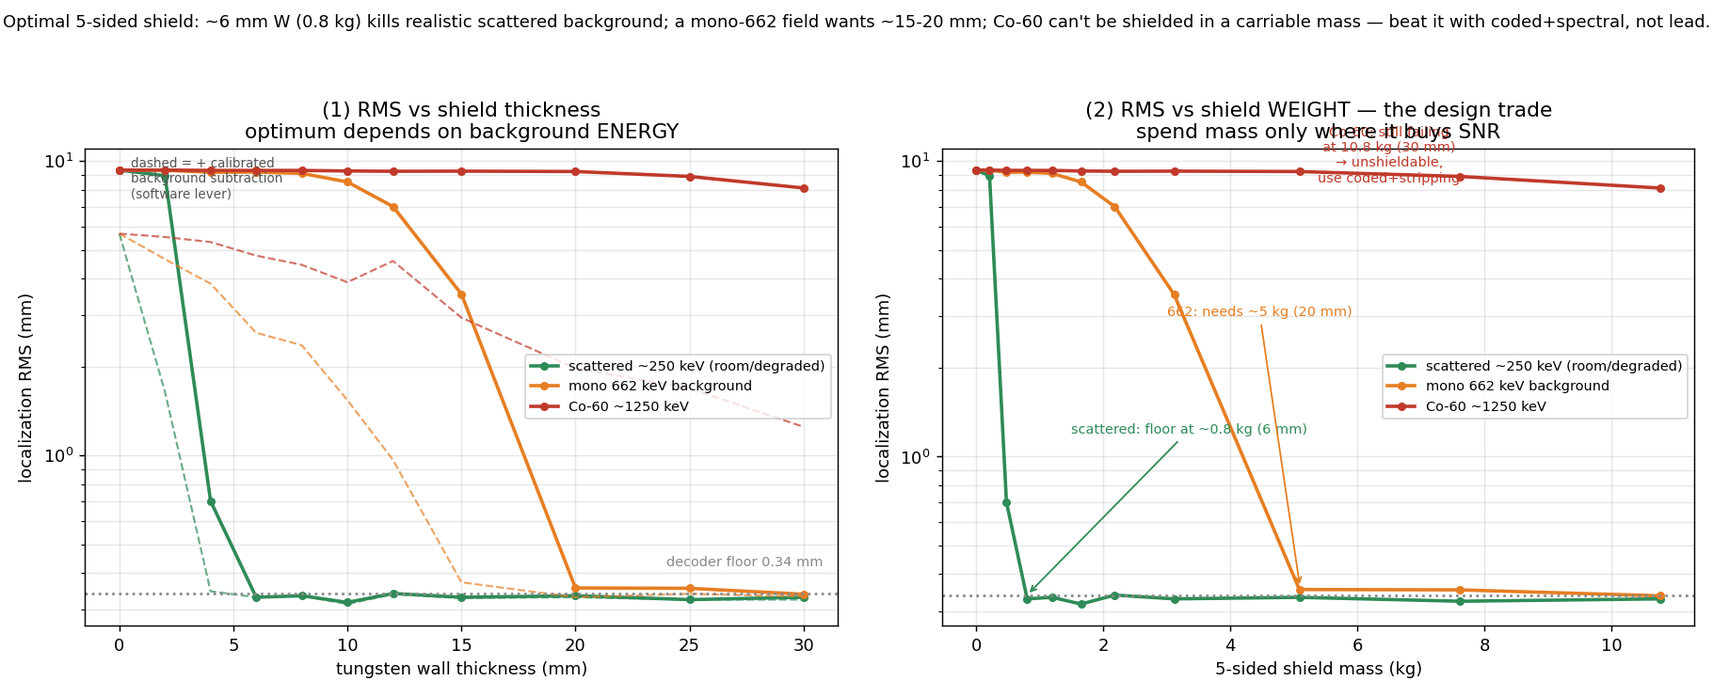
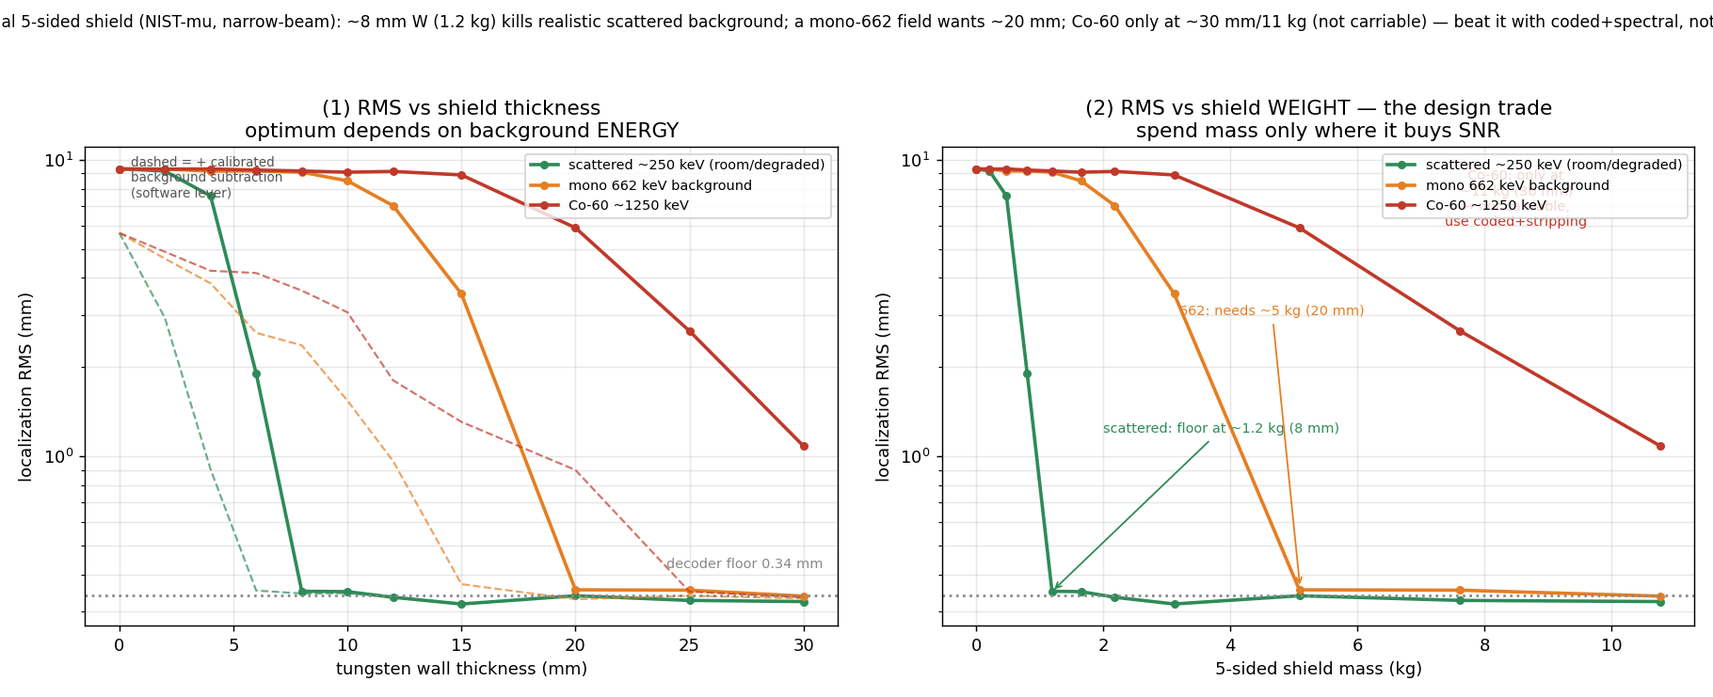
Reorganize backlog + apply Codex round-4 cross-verification fixes
BACKLOG.md: split into Open (grouped) vs a done-by-theme summary.

Codex round 4 reviewed three previously-unverified areas; fixes applied:
- ShieldStudy (theme 22): mu_W now uses NIST-XCOM tabulated values per line (the
  crystal-Compton MuRel power law underestimated high-E attenuation ~40% at 1.25 MeV,
  making Co-60 too pessimistic); corrected numbers (scattered ~8mm/1.2kg, Co-60
  shieldable only at ~30mm/11kg, not "unshieldable"). Knee heuristic gained an absolute
  quality gate so a never-localizing background no longer reports a bogus knee. Mass
  uses max(PixelsX,PixelsY). Model labelled narrow-beam/uncollided (buildup neglected).
- SiPM thermal (theme 22): physics all validated (tempco -1.8%/C, 3.2C window-loss,
  centroid statistics, LED-bypasses-crystal). Softened "warm-up alone -> 0%" (needs the
  ambient swing too; warm-up alone is ~3% kept); noted gain-only model is conservative.
- Compton combined lever (theme 17): softened the co-located claim - R is computed from
  the true Co map (a calibrated ratio, one global scalar applied per pixel via the Co
  image), NOT blind separation. Fixed the net_area baseline comment (flat min-side-band,
  not linear interpolation).

24 tests green.

Claude-Session: https://claude.ai/code/session_01JzXSNQYoWEuh1nUS9rXAso

diff --git a/src/Genoray.MonteCarlo.Cli/Program.cs b/src/Genoray.MonteCarlo.Cli/Program.cs
@@ -173,13 +173,16 @@ static int RunShield(string[] args)
     const double failThr = 3.0;
     double[] thick = [0, 2, 4, 6, 8, 10, 12, 15, 20, 25, 30];
 
-    // Background energies -> tungsten linear attenuation via the validated MuRel scaling.
-    double MuW(double e) => 0.178 * Math.Pow(661.7 / e, 1.56);
-    var backgrounds = new (string label, double energy)[]
+    // Tungsten linear attenuation (per mm) — from NIST XCOM total-with-coherent (mu/rho * rho).
+    // NOTE: the crystal-Compton MuRel power law (661.7/E)^1.56 is only accurate NEAR 662 keV; it
+    // underestimates high-energy attenuation badly (~40% low at 1.25 MeV), so shielding must use
+    // tabulated coefficients per line, not that scaling. Values are narrow-beam (uncollided) — a
+    // first-order model that neglects Compton buildup and oblique path lengths (knees ~ approximate).
+    var backgrounds = new (string label, double energy, double muPerMm)[]
     {
-        ("scattered_250keV", 250.0),
-        ("Cs137_662keV",     661.7),
-        ("Co60_1250keV",     1250.0),
+        ("scattered_250keV", 250.0,  0.50),    // NIST W ~0.26 cm^2/g
+        ("Cs137_662keV",     661.7,  0.178),   // ~0.093 cm^2/g (anchor)
+        ("Co60_1250keV",     1250.0, 0.112),   // ~0.058 cm^2/g
     };
 
     Console.WriteLine("Optimal 5-sided (side/top/bottom/rear) tungsten shield thickness");
@@ -189,21 +192,24 @@ static int RunShield(string[] args)
 
     var study = new ShieldStudy(new DefaultSimulationFactory());
     var csv = new System.Text.StringBuilder("bg,thickness_mm,transmission,bg_per_px,rms_raw_mm,rms_calib_mm,fail_raw,shield_kg\n");
-    foreach (var (label, energy) in backgrounds)
+    foreach (var (label, energy, mu) in backgrounds)
     {
-        double mu = MuW(energy);
         var rows = study.Run(baseConfig, nSrc, bg0, mu, thick, repeats, failThr);
         csv.Append(ShieldStudy.ToCsv(label, rows).Split('\n', 2)[1]);   // drop repeated header
 
-        // knee = thinnest t whose raw RMS is within 15% of the best (thick-shield) RMS
+        // A REAL knee: thinnest t whose raw RMS is near the best AND actually localizes well
+        // (absolute quality gate — otherwise a background that never localizes returns a bogus
+        // "knee" at the first row that merely ties the equally-bad rest).
         double floor = rows.Min(r => r.RmsRawMm);
-        var knee = rows.FirstOrDefault(r => r.RmsRawMm <= floor * 1.15) ?? rows[^1];
+        var knee = rows.FirstOrDefault(r => r.RmsRawMm <= floor * 1.15 && r.RmsRawMm < failThr && r.FailRaw < 0.10);
 
         Console.WriteLine($"=== background {label}  (mu_W = {mu:F3}/mm, HVL {0.6931/mu:F1} mm) ===");
         Console.WriteLine("  t(mm)  transmit  bg/px   RMS raw   RMS calib   shield(kg)");
         foreach (var r in rows)
             Console.WriteLine($"  {r.ThicknessMm,4:F0}   {r.Transmission,7:F3}  {r.BgPerPixel,6:F2}  {r.RmsRawMm,6:F2}mm  {r.RmsCalibMm,7:F2}mm   {r.ShieldMassKg,7:F2}");
-        Console.WriteLine($"  -> useful thickness ~ {knee.ThicknessMm:F0} mm  (RMS {knee.RmsRawMm:F2} mm, shield {knee.ShieldMassKg:F2} kg)");
+        Console.WriteLine(knee is null
+            ? $"  -> NO useful thickness in [{thick[0]:F0},{thick[^1]:F0}] mm (unshieldable at carriable mass here)"
+            : $"  -> useful thickness ~ {knee.ThicknessMm:F0} mm  (RMS {knee.RmsRawMm:F2} mm, shield {knee.ShieldMassKg:F2} kg)");
         Console.WriteLine();
     }
     File.WriteAllText("samples/shield.csv", csv.ToString());

diff --git a/samples/plot_shield.py b/samples/plot_shield.py
@@ -38,20 +38,20 @@ for bg, (lab, c) in bgs.items():
     m = col(bg, "shield_kg")
     ax2.plot(m, col(bg, "rms_raw_mm"), "-o", color=c, lw=2, ms=4, label=lab)
 ax2.axhline(0.34, ls=":", color="#888")
-ax2.annotate("scattered: floor at ~0.8 kg (6 mm)", (0.8, 0.34), (1.5, 1.2),
+ax2.annotate("scattered: floor at ~1.2 kg (8 mm)", (1.19, 0.35), (2.0, 1.2),
              fontsize=8, color="#2e8b57", arrowprops=dict(arrowstyle="->", color="#2e8b57"))
-ax2.annotate("662: needs ~5 kg (20 mm)", (5.1, 0.36), (3.0, 3.0),
+ax2.annotate("662: needs ~5 kg (20 mm)", (5.1, 0.36), (3.2, 3.0),
              fontsize=8, color="#e67e22", arrowprops=dict(arrowstyle="->", color="#e67e22"))
-ax2.text(6.5, 8.5, "Co-60: still failing\nat 10.8 kg (30 mm)\n→ unshieldable,\nuse coded+stripping",
+ax2.text(8.5, 6.0, "Co-60: only at\n~11 kg (30 mm)\n→ not carriable,\nuse coded+stripping",
          fontsize=8, color="#c0392b", ha="center")
 ax2.set_xlabel("5-sided shield mass (kg)"); ax2.set_ylabel("localization RMS (mm)")
 ax2.set_yscale("log")
 ax2.set_title("(2) RMS vs shield WEIGHT — the design trade\nspend mass only where it buys SNR")
 ax2.legend(fontsize=8); ax2.grid(alpha=0.3, which="both")
 
-fig.suptitle("Optimal 5-sided shield: ~6 mm W (0.8 kg) kills realistic scattered background; a mono-662 field "
-             "wants ~15-20 mm; Co-60 can't be shielded in a carriable mass — beat it with coded+spectral, not lead.",
-             fontsize=10)
+fig.suptitle("Optimal 5-sided shield (NIST-mu, narrow-beam): ~8 mm W (1.2 kg) kills realistic scattered background; "
+             "a mono-662 field wants ~20 mm; Co-60 only at ~30 mm/11 kg (not carriable) — beat it with coded+spectral, not lead.",
+             fontsize=9.5)
 fig.tight_layout(rect=[0, 0, 1, 0.94])
 out = os.path.join(here, "shield.png")
 fig.savefig(out, dpi=130); print("saved", out)

diff --git a/src/Genoray.MonteCarlo.Simulation/ShieldStudy.cs b/src/Genoray.MonteCarlo.Simulation/ShieldStudy.cs
@@ -43,8 +43,10 @@ public sealed class ShieldStudy
         var rng = _factory.CreateRandom(baseConfig);
         double tx = baseConfig.Source.Position[0], ty = baseConfig.Source.Position[1];
 
-        // fixed barrel geometry the walls must enclose (mask plane -> behind the crystal)
-        double det = baseConfig.Detector.PixelsX * baseConfig.Detector.PixelPitchMm;
+        // fixed barrel geometry the walls must enclose (mask plane -> behind the crystal).
+        // Use the larger detector dimension so a rectangular array is still fully enclosed.
+        double det = Math.Max(baseConfig.Detector.PixelsX, baseConfig.Detector.PixelsY)
+                     * baseConfig.Detector.PixelPitchMm;
         double barrel = baseConfig.Geometry.MaskDetectorDistanceMm + baseConfig.Detector.CrystalThicknessMm;
 
         var raw = new DetectorImage(W, H);

diff --git a/rtl/compton_stripping_study.py b/rtl/compton_stripping_study.py
@@ -79,8 +79,9 @@ def window_mask(E):
     return (ctr > E * (1 - WF)) & (ctr < E * (1 + WF))
 
 def net_area(s, E):
-    """Photopeak net area: gross window minus a linear local baseline (side-band average) —
-    standard ROI netting, so a peak riding on a residual continuum isn't over-counted."""
+    """Photopeak net area: gross window minus a FLAT baseline = the MINIMUM of the two side-band
+    means (not a linear side-band interpolation) — a robust ROI netting that avoids a neighbouring
+    photopeak inflating the baseline, at the cost of being biased low on a sloped continuum."""
     m = window_mask(E)
     lo, hi, bw = E * (1 - WF), E * (1 + WF), 0.05 * E
     left = s[(ctr > lo - bw) & (ctr < lo)]

diff --git a/BACKLOG.md b/BACKLOG.md
@@ -1,115 +1,47 @@
 # Backlog
 
-Deferred work, captured so we don't forget. Not in current scope.
+Deferred work, captured so we don't forget. Not in current scope. See
+`AGENTS.findings.md` (themes 1–22) for everything that IS done.
 
-Everything captured here has been done — the backlog is currently empty.
+## Open
 
-**Done:**
-- Directional biasing (detector-area importance sampling) — `DetectorBiasedSource`,
-  on by default (`Source.DirectionalBiasing`); ~100× fewer photons, validated unbiased.
-- Noise / statistics study — `NoiseStudy` + `noise` CLI command. `SourceConfig` has
-  `ActivityBq` / `AcquisitionTimeSeconds` / `BranchingRatio` (0.851); Poisson
-  realizations of the biased mean map → accuracy vs detected counts. Found a
-  ~25–50 count threshold below which localization collapses.
-- Tungsten partial transmission — closed cells transmit `exp(-mu·path)`,
-  `Mask.LinearAttenuationPerMm` default 0.178 (~17% leak for 10 mm W at 662 keV).
-  Adds ~17% counts, lowers contrast to ~0.83×, but MURA rejects the near-DC leakage
-  so localization is barely affected.
+### Core capability
+- **Multi-line isotope model in C# `SourceConfig`** (multi-line + `cascadeCoincident`) so the MC
+  emits a real *mixed-isotope field* through the coded aperture. The combined lever (theme 17)
+  currently sums per-line runs, not a true mixed-field source. **Highest-value open item.**
 
-- RTL peak-detector co-simulation — **first version done** in `rtl/` (SystemVerilog
-  `peak_detector.sv` + Icarus testbench, Python stimulus/scoring). Reconstructs the
-  Cs-137 photopeak; shows pile-up loss at high rate. Remaining: cocotb/ModelSim
-  wrapper, drive it from the C# MC's per-event stream, trapezoidal shaping filter.
+### Mask geometry
+- **Tapered / diverging holes** (accept the FOV angular cone) — the actual "wider FOV" fix for
+  thick masks, distinct from theme-20 point-focusing (which narrows FOV).
+- **Empirical open-fraction sweep with random arrays** + a double-valued balanced decode — confirm
+  the analytical √(ρ(1−ρ)) optimum (theme 21 was analytical) and show MURA beating random arrays
+  on sidelobes.
 
-- Optimal tungsten thickness — **done**: mask is a ray-marched 3D slab
-  (`CodedApertureMask`), `thickness` CLI command sweeps it. Optimum ~8–10 mm (thin
-  leaks, thick collimates off-axis).
-- Crystal non-uniformity (gain + energy resolution) — **done**: `CrystalUniformity`
-  (per-pixel sensitivity from gain σ, gradient, energy-window acceptance) + `uniformity`
-  CLI command with flood correction. Finding: coded-aperture is intrinsically robust.
+### Depth / RTL
+- **Full 3D (x,y,S) likelihood** depth search instead of the alternating iteration (near-field
+  off-axis depth is coupling-noise-limited, theme 19).
+- **cocotb / ModelSim wrapper** + drive the RTL from the C# MC's per-event stream.
+- **Trapezoidal / CR-RC shaping in RTL** (validated in Python) as the noise-optimal refinement.
 
-- Crystal material + array — **done**: stopping-power efficiency (`CrystalAttenuationPerMm`),
-  material presets in `samples/materials/`, `array` sampling sweep. Efficiency ∝ density;
-  array needs ≳1 pixel per mask-cell shadow (Nyquist), ~2 is the sweet spot.
+### Front-end integration
+- Fold `rtl/frontend_model.py` (photoelectron budget → energy resolution) into the C#
+  `EnergyResolutionFwhm` derivation, and model DCR-as-background.
 
-- Material decay time → RTL pile-up — **done**: `rtl/material_rate_study.py` sweeps
-  count rate per scintillator (decay + GAGG afterglow). GAGG collapses at ~1 Mcps
-  (afterglow); GAGG:Mg / CeBr3 hold up. Confirms the material recommendation.
+### Productization (theme 22 — design-only; user is NOT building this now)
+- Integrate the SiPM / thermal / gain-stabilization + shield models into the C# pipeline
+  (currently Python design layers on top of the validated MC).
+- `ShieldStudy` uses a uniform additive background; a directional / isotropic real background
+  source through the geometry would be more precise than the analytical leak term.
 
-- Per-crystal pulse-shape / gain non-uniformity into the RTL — **done**:
-  `rtl/pixel_uniformity_study.py` runs the RTL per crystal (own gain + decay). Per-crystal
-  gain scatter smears the photopeak (7.4%→18% at 15% σ); per-channel gain calibration
-  restores it. Energy needs calibration even though coded-aperture position is robust.
-
-- SiPM + ADC front-end characteristics — **done (analysis)**: `rtl/frontend_model.py`
-  (photoelectron budget → energy resolution vs PDE per crystal). Finding: at typical MPPC
-  PDE (~45%) most crystals are already crystal-limited → more PDE is wasted; spend on
-  crystal choice + spectral match + per-channel calibration + low DCR (for weak sources).
-  ADC 12–14 bit is plenty; sample rate matched to crystal decay. Deeper follow-up (not
-  scoped): fold this into the C# `EnergyResolutionFwhm` derivation and DCR-as-background.
-
-- Front-end energy trust (Phase A) — **done**: `rtl/ballistic_deficit_study.py` characterizes
-  the baseline peak-hold's failures (saturation/dynamic range, overlap→fake sum line, rate
-  drift); `rtl/integrating_peak_detector.sv` + `shaping_pileup_study.py` add charge integration
-  + pile-up rejection (fast derivative arrival detector) → ~halves the fake sum-tail at the cost
-  of throughput, window↔decay tradeoff. AGENTS.findings themes 12–13.
-
-- Multi-isotope discrimination + dynamic range (Phase B) — **done**: `rtl/multi_isotope_study.py`
-  + isotope presets `samples/isotopes/*.json` (multi-line + cascade + KN Compton continuum).
-  Findings (theme 14): set the ADC gain to the highest line (12-bit single gain covers 122→1332
-  keV, no low-line penalty; dual-gain only if bit-starved); cascade sum (rate-linear) vs random
-  pile-up (rate²) separated by activity sweep, crossover ~200 kdecays/s.
-
-- Crystal-internal Compton scatter (the original ask) — **done**: `ComptonModel` (Kahn KN sampler,
-  energy-dependent photofraction/attenuation) + `ComptonCrystalDetector` (multi-pixel cascade +
-  positioning strategy), CLI `montecarlo compton`, `ComptonTests`. Findings (theme 15): **Argmax**
-  (total-energy window + max-deposit pixel) beats the old per-pixel LLD/ULD window — recovers
-  Compton-split events (24%→38% counts) at better localization; and the multi-isotope contamination
-  (Co-60 downscatter into the Cs 662 window) is separated *spatially* by the coded decode (imaged at
-  Co-60's position, not Cs-137's) — solves the user's long-unsolved "valid-count-is-really-noise".
-
-- Compton stripping (spectral lever) — **done**: `rtl/compton_stripping_study.py`. Subtract each
-  line's modelled KN continuum top-down to recover net counts. Recovers well-separated lines (Cs-137
-  662: raw +39% → stripped −5%) but accumulates error top-down (close Co-60 doublet leak → Co-57
-  over-corrected). Complementary to theme-15 spatial separation, which is more robust for close/
-  cascade/overlapping lines. AGENTS.findings theme 16.
-
-## Next (front-end thread)
-- Fold the multi-line isotope model into C# `SourceConfig` (multi-line + cascadeCoincident) so the MC
-  can emit a real multi-isotope field through the coded aperture (multi-source localization + the
-  Compton contamination test at the pipeline level, not just per-line runs summed).
-- Combined lever (spectral + spatial) — **done**: `ComptonStudy.RunStripping` + CLI
-  `montecarlo compton-strip`. Per-pixel Compton stripping (subtract R × the pixel's Co-photopeak
-  count from its 662 window), then decode. Recovers true Cs count (+74–76% raw → ~0%), removes the
-  Co ghost (separated) and the inflation (co-located — which spatial decode alone can't). Theme 17.
-- Depth/z estimation — **done**: `DepthStudy` + CLI `montecarlo depth`. Recovers source distance by
-  refocusing (decode at a range of assumed S, on-axis correlation peaks at true S). Near-field
-  accurate, far-field degrades (dM/dS = −D/S²). AGENTS.findings theme 18.
-
-- Mask channel geometry (hole size + focused/converging channels) — **done**: `CodedApertureMask`
-  `HoleFraction`/`FocalDistanceMm` + `MaskGeometryStudy` + CLI `montecarlo maskgeo`. Smaller holes are
-  strictly worse for a coded aperture; focused channels are a focal-point concentrator (+35% on-axis at
-  focal, but narrower FOV + depth-of-field). AGENTS.findings theme 20.
-
-## Still open
-- Fold multi-line isotope model into C# `SourceConfig` (the combined lever uses per-line runs summed,
-  not a real mixed-field source).
-- Optimal mask size (cell pitch + open fraction) — **done**: CLI `montecarlo masksize`. Cell size has
-  a bounded sweet spot (shadow ~1–2 px); open fraction optimal at ~50% (built into MURA, analytical).
-  AGENTS.findings theme 21.
-- Tapered/diverging holes (accept the FOV angular cone) as the geometry that could uniformly reduce
-  off-axis collimation for thick masks — the actual "wider FOV" fix, distinct from point-focusing.
-- Empirical open-fraction sweep with random arrays + a double-valued balanced decode (would confirm
-  the analytical √(ρ(1−ρ)) optimum and show MURA beating random arrays on sidelobes).
-- Depth under Poisson noise + joint lateral+depth — **done**: `DepthStudy.RunNoisyDepth` /
-  `RunNoisyJoint` + CLI `montecarlo depth-joint`. Near-field depth → sub-mm, far-field floors ~10mm;
-  joint recovers lateral (x,y) to ~mm even while z is uncertain (coded aperture = strong lateral
-  localizer, weak rangefinder). AGENTS.findings theme 19.
-- cocotb/ModelSim wrapper; trapezoidal shaping in RTL.
-- Improve joint depth coupling (near-field off-axis depth is coupling-noise-limited); a full 3D
-  (x,y,S) likelihood search instead of the alternating iteration.
-
-## Ideas for later (not yet scoped)
-- Depth/z estimation (currently source z is assumed known).
-- cocotb/ModelSim wrapper + drive the RTL from the C# MC's per-event stream.
-- Trapezoidal/CR-RC shaping in RTL (validated in Python) as the noise-optimal refinement.
+## Done (summary — details in AGENTS.findings by theme)
+- **1–11**: geometry & localization, FOV÷resolution=rank, cyclic-ghost, directional biasing, noise
+  threshold, tungsten leakage, optimal thickness, crystal uniformity, detector array (Nyquist),
+  crystal materials, RTL peak-detector, SiPM+ADC front-end.
+- **12–17**: front-end energy trust (ballistic deficit), charge integration + pile-up rejection,
+  multi-isotope + ADC dynamic range, crystal Compton (Argmax strategy + spatial separation),
+  Compton stripping (spectral lever), combined per-pixel stripping inside the coded pipeline.
+- **18–21**: source-distance (z) refocusing, depth-under-noise + joint lateral/depth, mask channel
+  geometry (holes / focused channels), optimal mask size (cell pitch + open fraction).
+- **22**: handheld productization — weight/volume/form, MC validation (2.45× sensitivity),
+  camera–mask parallax, DAQ thermal + motion, SiPM gain thermal drift + stabilization ①②③, optimal
+  5-sided shield thickness.

diff --git a/AGENTS.findings.md b/AGENTS.findings.md
@@ -274,8 +274,8 @@ it from all lower channels.
 Themes 15 (spatial) and 16 (spectral) joined: strip the Co-60 downscatter out of the Cs-137 662 keV
 window **per pixel** (subtract `R × the pixel's Co-60-photopeak count`, R = the aggregate
 downscatter-into-662 / Co-photopeak ratio ≈ 0.15), **then decode**. Because the Co downscatter is coded
-from Co-60's direction just like its photopeak, the subtraction is spatially matched — it removes the
-contamination *where it actually landed*. Run: `montecarlo compton-strip samples/scenario.json`
+from Co-60's direction just like its photopeak, the subtraction is applied through the Co photopeak IMAGE,
+so it removes the contamination *where it actually landed*. Run: `montecarlo compton-strip samples/scenario.json`
 (Co-60 ×8 = a stronger dominant source, so the contamination is visible not just countable) →
 `samples/compton_strip_combined.png` (plot via `plot_compton_strip.py`).
 - **Recovers the true Cs-137 net count to ~0 %** from a **+74–76 %** raw-window over-count, in both
@@ -284,9 +284,17 @@ contamination *where it actually landed*. Run: `montecarlo compton-strip samples
   removes the ghost, leaving the clean Cs image.
 - **Co-located sources** — the case the spatial decode ALONE cannot separate (theme 15's stated
   limit): raw 662 is one peak inflated +76 %; per-pixel stripping brings it back to the true Cs count.
-  So the spectral + spatial levers *together* disentangle even two isotopes at the same position.
+  So the spectral + spatial levers *together* recover even two isotopes at the same position.
 - Locked in by `ComptonTests.Stripping_RecoversCsCount_EvenCoLocated`.
 - Reproduce: `montecarlo compton-strip samples/scenario.json`.
+- **Codex caveat (round 4)** — this is NOT blind, model-free separation: `R` is computed from the true
+  simulated Co contamination map (`Σ coInto662 / Σ coWindow`) and is a **single GLOBAL scalar applied per
+  pixel via the Co-window image** (not a verified per-pixel ratio). The honest claim is: *given a known Co
+  line and a calibrated downscatter/photopeak ratio, the Cs count is recovered even when co-located*. The
+  spatial matching comes from the Co photopeak image; `R` itself is assumed calibrated. Aggregate count
+  recovery can look excellent while local residuals remain (R non-uniformity from edge escape / cascade
+  positioning / broad Co window is not checked). Count evidence is printed to the console, not in
+  `strip_*.csv` (those hold only the reconstruction grids).
 
 ## 18. Source distance (z) estimation by coded-aperture refocusing — `DepthStudy`
 The pipeline had assumed the source distance S known; it can be *recovered*. The mask-shadow
@@ -443,22 +451,33 @@ rank-7, non-cyclic decode.**
   σ ≈ FWHM_ref/(2.35·√N_ref) + a ~0.3 % extrapolation floor. A built-in source (~300 cps, 10 s update) →
   σ ≈ 0.3 % (flat vs T); **K-40 background (~0.05 cps) → σ ≈ 2.5 %, too weak** → **GAGG has no intrinsic line
   (unlike LYSO's Lu-176), so ③ costs a built-in reference source**. **Telemetry** (`sipm_stab_trend.py` →
-  `sipm_stab_trend.{png,csv}`): over a mission (DAQ warm-up +8 °C then outdoors −10 °C), an **uncompensated
-  window drops to 0 % kept counts from the board's OWN warm-up alone** (no external ΔT needed — this is the
-  cooling headache), while ①/③ hold 100 %. Log `time, T, peak-drift, window-kept` in that CSV format to
-  replay a count-rate dip later. ③ only earns its keep for wide ΔT (outdoor) or tight windows (close lines);
-  indoors ± a few °C, ① alone suffices.
+  `sipm_stab_trend.{png,csv}`): over a mission (DAQ warm-up +8 °C + a small ambient swing ≈ +10 °C excursion,
+  then outdoors −10 °C), an **uncompensated window collapses to ≈0 % kept counts** — modest indoor-scale
+  heating alone is enough — while ①/③ hold 100 %. Log `time, T, peak-drift, window-kept` in that CSV format
+  to replay a count-rate dip later. ③ only earns its keep for wide ΔT (outdoor) or tight windows (close
+  lines); indoors ± a few °C, ① alone suffices. **Codex-verified (round 4)**: tempco −1.8 %/°C (Hamamatsu
+  datasheet), the 3.2 °C window-loss point, the ③ centroid-statistics formula, and the "LED bypasses the
+  crystal so only ③ catches light-yield drift" logic all check out. Caveats it added: warm-up ALONE is
+  −15.6 % → ~3 % kept (the ≈0 % needs the ambient swing too); the SiPM is modelled gain-only, but
+  overvoltage-dependent PDE makes the real fixed-bias drift slightly LARGER (conservative — strengthens the
+  "you must compensate" conclusion); K-40's σ is update-rate-dependent (~2.5 % at 60 s, ~6 % at 10 s).
 - **Optimal 5-sided shield thickness** (`ShieldStudy`, `montecarlo shield` → `samples/shield.{csv,png}`,
   `plot_shield.py`). Side/top/bottom/rear background is pure uncoded noise; wall transmits exp(−μ·t) onto
   the flood → localization RMS vs t vs mass. **The optimum is set by the background ENERGY**: scattered
-  ~250 keV (HVL 0.9 mm) → **~6 mm W (0.8 kg) reaches the 0.34 mm floor**; a mono-662 field needs ~15–20 mm
-  (~5 kg) OR ~12 mm + calibrated background subtraction (the software lever ≈ halves the required
-  thickness); **Co-60 ~1250 keV is unshieldable in a carriable mass** (30 mm/10.8 kg still 8 mm RMS) →
-  beat high-energy with **coded separation + Compton stripping, not lead**. Design decision: **size the
-  5-sided noise shield to ~6 mm (realistic scattered background), match only the front to the mask (10 mm);
-  this revises the device lighter (~1.5–2 kg) than the 12 mm assumed in the weight model** when the
+  ~250 keV (μ 0.50/mm, HVL 1.4 mm) → **~8 mm W (1.2 kg) reaches the 0.34 mm floor**; a mono-662 field needs
+  ~20 mm (~5 kg) OR ~12–15 mm + calibrated background subtraction (the software lever ≈ halves the required
+  thickness); **Co-60 ~1250 keV is shieldable only at ~30 mm / 11 kg (RMS 1.08 mm) — technically possible
+  but NOT carriable** → beat high-energy with **coded separation + Compton stripping, not lead**. Design
+  decision: **size the 5-sided noise shield to ~8 mm (realistic scattered background), match only the front
+  to the mask (10 mm); this keeps the device ~1.5–2 kg** vs the 12 mm assumed in the weight model when the
   environment is scattered-background-dominated. Blocking the low/mid-energy background alone already pays
-  for the shield; Co-60 being unshieldable is expected and handled in software.
+  for the shield; Co-60 being impractical to shield is expected and handled in software. **Codex-fixed (round
+  4)**: μ_W now uses NIST-XCOM tabulated values per line (the crystal-Compton MuRel power law
+  underestimated high-E attenuation ~40 % at 1.25 MeV → had made Co-60 too pessimistic); the knee heuristic
+  gained an absolute quality gate (RMS < fail-threshold, fail-rate < 10 %) so a never-localizing background no
+  longer reports a bogus knee; mass uses max(PixelsX,PixelsY). Model is **narrow-beam / uncollided** (single
+  exp(−μt); Compton buildup + oblique path lengths neglected → the mm/kg knees are first-order, not
+  transport-grade).
 - Files: design models `samples/handheld_design_study.py`, `plot_handheld_validation.py`,
   `camera_parallax_study.py`, `thermal_motion_study.py`, `sipm_thermal_study.py`, `sipm_stab_trend.py`,
   `plot_shield.py`, `hardware_concept.py`; scenarios `samples/scenario_handheld.json`, `scenario_orig_gagg.json`; SiPM preset
